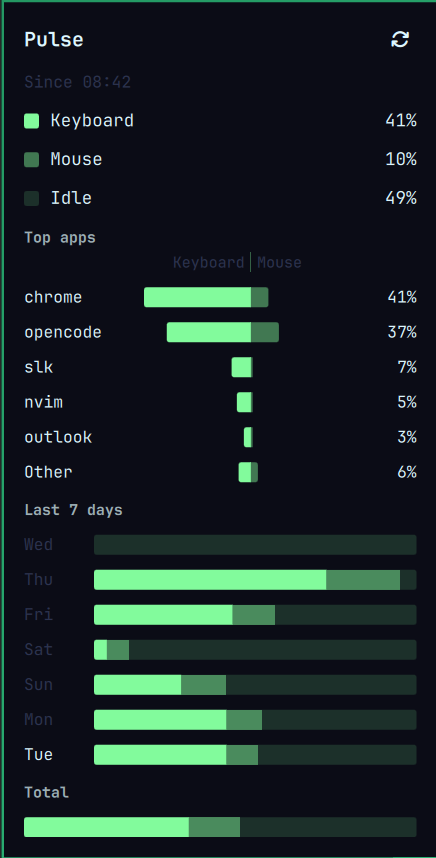
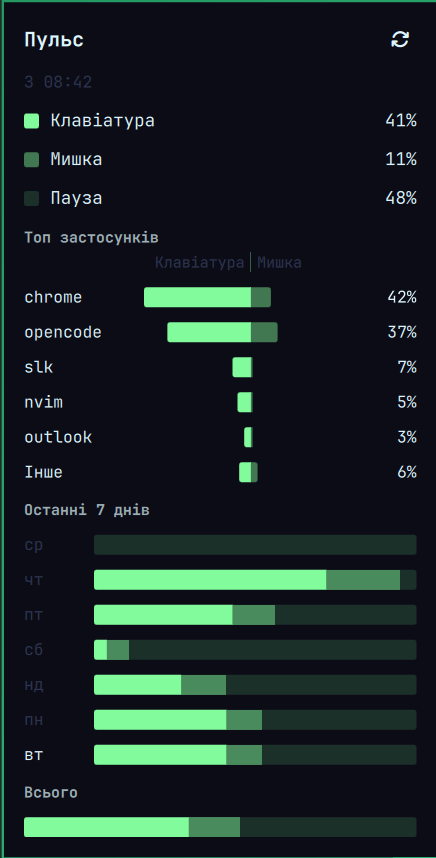
docs: Hackerman gallery shot in Ukrainian

diff --git a/README.md b/README.md
@@ -25,7 +25,7 @@ Everything follows your Omarchy theme, and the panel speaks English and Ukrainia
 <p align="center">
   <img src="docs/img/panel.png" alt="The pulse panel on Gruvbox: today's split, top apps, last 7 days" width="250">
   <img src="docs/img/panel-latte.png" alt="The pulse panel on Catppuccin Latte" width="250">
-  <img src="docs/img/panel-hackerman.png" alt="The pulse panel on Hackerman" width="250">
+  <img src="docs/img/panel-hackerman.png" alt="The pulse panel on Hackerman, in Ukrainian" width="250">
 </p>
 
 ## Why
